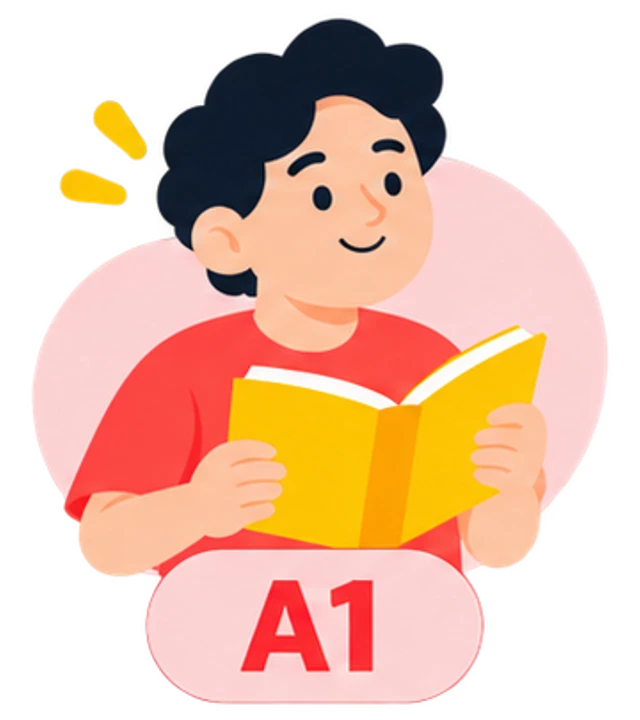
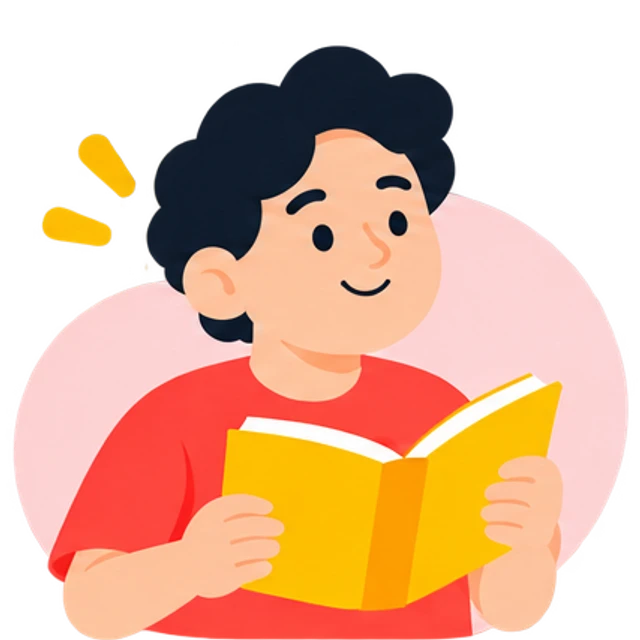
feat(placement): ilustrasi hasil placement test kini ada versi cowok & cewek tanpa badge level — dipilih lewat "Kamu cowok atau cewek?" di form sebelum tes; latar halaman hasil jadi putih, garis tepi balok level siswa di peta CEFR berputar, dan "Kamu di sini" berbentuk gelembung chat [placement-gend

diff --git a/src/app/silabus/[lang]/coba/PlacementTest.tsx b/src/app/silabus/[lang]/coba/PlacementTest.tsx
@@ -42,6 +42,37 @@ type Screen = "intro" | "quiz" | "result";
 
 // [placement-rekam-saat-mulai-v1] Kontak diisi WAJIB sebelum tes (kecuali siswa /akun).
 type Contact = { name: string; email: string; whatsapp: string };
+// [placement-gender-ilustrasi-v1] Dipilih di form sebelum tes → menentukan ilustrasi hasil
+// (cowok: <level>.webp, cewek: <level>-f.webp). Hanya disimpan di browser (linguo_prefill).
+type Gender = "m" | "f";
+const levelArtSrc = (level: string, gender: Gender | null) =>
+  `/illustrations/placement-level/${level.toLowerCase()}${gender === "f" ? "-f" : ""}.webp?v=2`;
+
+function GenderPick({ value, onChange }: { value: Gender | null; onChange: (g: Gender) => void }) {
+  return (
+    <div>
+      <p className="text-sm font-semibold text-gray-900 mb-2">Kamu cowok atau cewek?</p>
+      <div role="radiogroup" aria-label="Jenis kelamin" className="grid grid-cols-2 gap-3">
+        {([["m", "Cowok"], ["f", "Cewek"]] as [Gender, string][]).map(([g, label]) => {
+          const on = value === g;
+          return (
+            <button key={g} type="button" role="radio" aria-checked={on} onClick={() => onChange(g)}
+              className={"relative flex items-center gap-2.5 rounded-xl border-2 px-3 py-2 text-left transition-colors " +
+                (on ? "border-[#1A9E9E] bg-[#1A9E9E]/[0.07]" : "border-gray-200 bg-white hover:border-gray-300")}>
+              {/* eslint-disable-next-line @next/next/no-img-element */}
+              <img src={levelArtSrc("a1", g)} alt="" width={44} height={44} className="h-11 w-11 flex-shrink-0 object-contain" draggable={false} />
+              <span className={"text-sm font-semibold " + (on ? "text-[#147a7a]" : "text-gray-700")}>{label}</span>
+              <span className={"ml-auto flex h-5 w-5 flex-shrink-0 items-center justify-center rounded-full border-2 " +
+                (on ? "border-[#1A9E9E] bg-[#1A9E9E]" : "border-gray-300 bg-white")}>
+                {on && <Check className="h-3 w-3 text-white" strokeWidth={4} />}
+              </span>
+            </button>
+          );
+        })}
+      </div>
+    </div>
+  );
+}
 
 function fmtClock(sec: number): string {
   const m = Math.floor(sec / 60);
@@ -147,6 +178,7 @@ export default function PlacementTest({ curriculum, questions: soalBawaan }: Pro
   const searchParams = useSearchParams();
   const fromAkun = searchParams?.get("ref") === "akun" && !!searchParams?.get("sid");
   const [contact, setContact] = useState<Contact | null>(null);
+  const [gender, setGender] = useState<Gender | null>(null);
 
   const question = questions[currentQ];
   const progress = ((currentQ + 1) / questions.length) * 100;
@@ -237,7 +269,8 @@ export default function PlacementTest({ curriculum, questions: soalBawaan }: Pro
       <AnimatePresence mode="wait">
         {screen === "intro" && (
           <IntroScreen key="intro" meta={meta} total={questions.length} listening={questions.filter((q) => q.audio).length}
-            needContact={!fromAkun} onContact={saveContact} onStart={startTest} starting={menyiapkan} />
+            needContact={!fromAkun} onContact={saveContact} onStart={startTest} starting={menyiapkan}
+            gender={gender} onGender={setGender} />
         )}
         {screen === "quiz" && question && (
           <QuizScreen
@@ -264,6 +297,7 @@ export default function PlacementTest({ curriculum, questions: soalBawaan }: Pro
             meta={meta}
             timeElapsedSec={Math.floor((Date.now() - startTimeRef.current) / 1000)}
             contact={contact}
+            gender={gender}
             onRetake={startTest}
           />
         )}
@@ -275,9 +309,9 @@ export default function PlacementTest({ curriculum, questions: soalBawaan }: Pro
 // ================================================
 // INTRO
 // ================================================
-function IntroScreen({ meta, total, listening, needContact, onContact, onStart, starting }: {
+function IntroScreen({ meta, total, listening, needContact, onContact, onStart, starting, gender, onGender }: {
   meta: any; total: number; listening: number; needContact: boolean; onContact: (c: Contact) => void; onStart: () => void;
-  starting: boolean;
+  starting: boolean; gender: Gender | null; onGender: (g: Gender) => void;
 }) {
   // [placement-popup-biodata-tips-v1] "Mulai Test" → popup: biodata (wajib) → tips → mulai.
   const [step, setStep] = useState<null | "biodata" | "tips">(null);
@@ -293,9 +327,20 @@ function IntroScreen({ meta, total, listening, needContact, onContact, onStart, 
         if (p.name) setName(String(p.name));
         if (p.email) setEmail(String(p.email));
         if (p.whatsapp) setWa(cleanWa(String(p.whatsapp)));
+        if (p.gender === "m" || p.gender === "f") onGender(p.gender);
       }
     } catch {}
+    // eslint-disable-next-line react-hooks/exhaustive-deps
   }, []);
+
+  // Simpan pilihan supaya tes berikutnya (dan siswa /akun yang tanpa form biodata) tak memilih ulang.
+  const pilihGender = (g: Gender) => {
+    onGender(g);
+    try {
+      const p = JSON.parse(localStorage.getItem("linguo_prefill") || "null") || {};
+      localStorage.setItem("linguo_prefill", JSON.stringify({ ...p, gender: g }));
+    } catch {}
+  };
 
   const kirimBiodata = () => {
     setErr("");
@@ -304,8 +349,9 @@ function IntroScreen({ meta, total, listening, needContact, onContact, onStart, 
     if (!/^[^\s@]+@[^\s@]+\.[^\s@]+$/.test(email.trim())) return setErr("Masukkan email yang valid");
     if (w.length < 9) return setErr("Nomor WhatsApp minimal 9 digit");
     if (!w.startsWith("8")) return setErr("Nomor HP harus diawali 8 (tanpa 0 / +62)");
+    if (!gender) return setErr("Pilih cowok atau cewek dulu ya");
     const c = { name: name.trim(), email: email.trim(), whatsapp: w };
-    try { localStorage.setItem("linguo_prefill", JSON.stringify(c)); } catch {}
+    try { localStorage.setItem("linguo_prefill", JSON.stringify({ ...c, gender })); } catch {}
     onContact(c);
     setStep("tips");
   };
@@ -377,6 +423,7 @@ function IntroScreen({ meta, total, listening, needContact, onContact, onStart, 
                       <input type="tel" value={wa} onChange={(e) => setWa(cleanWa(e.target.value))} placeholder="812 xxxx xxxx" inputMode="numeric" autoComplete="tel-national"
                         className="flex-1 min-w-0 px-4 py-3 rounded-r-xl border border-gray-200 bg-white focus:border-[#1A9E9E] focus:ring-2 focus:ring-[#1A9E9E]/20 outline-none text-sm" />
                     </div>
+                    <GenderPick value={gender} onChange={pilihGender} />
                     {err && <p className="text-xs text-rose-600">{err}</p>}
                   </div>
                   <button type="submit"
@@ -406,6 +453,7 @@ function IntroScreen({ meta, total, listening, needContact, onContact, onStart, 
                       </li>
                     ))}
                   </ul>
+                  {!needContact && <div className="mt-5"><GenderPick value={gender} onChange={pilihGender} /></div>}
                   <button type="button" autoFocus onClick={onStart} disabled={starting}
                     className="mt-6 w-full inline-flex items-center justify-center gap-2 px-6 py-3 bg-[#1A9E9E] text-white rounded-xl font-semibold hover:bg-[#147a7a] transition-colors disabled:opacity-70">
                     {starting ? "Menyiapkan soal…" : <>Mulai Test Sekarang <ArrowRight className="w-4 h-4" /></>}
@@ -641,9 +689,9 @@ function QuizScreen(props: {
 // ================================================
 // RESULT (with Soft-gate WA)
 // ================================================
-function ResultScreen({ score, questions, log, meta, timeElapsedSec, contact, onRetake }: {
+function ResultScreen({ score, questions, log, meta, timeElapsedSec, contact, gender, onRetake }: {
   score: number; questions: Question[]; log: { correct: boolean; skipped: boolean }[]; meta: any; timeElapsedSec: number;
-  contact: Contact | null; onRetake: () => void;
+  contact: Contact | null; gender: Gender | null; onRetake: () => void;
 }) {
   // Compute max score dynamically: sum of DIFFICULTY_POINTS per question
   const maxScore = questions.reduce((sum, q) => sum + DIFFICULTY_POINTS[q.difficulty], 0);
@@ -669,7 +717,7 @@ function ResultScreen({ score, questions, log, meta, timeElapsedSec, contact, on
   const [checkingSession, setCheckingSession] = useState(false);
 
   // [placement-hasil-redesign-v1] Warna tiap level mengikuti ilustrasinya
-  // (public/illustrations/placement-level/<level>.webp): A1 merah, A2 biru, B1 kuning, B2 hijau.
+  // (public/illustrations/placement-level/<level>.webp, cewek: <level>-f.webp): A1 merah, A2 biru, B1 kuning, B2 hijau.
   const levelColorMap: Record<string, { bg: string; text: string; soft: string; border: string; pill: string }> = {
     A1: { bg: "bg-rose-100", text: "text-rose-500", soft: "bg-rose-50", border: "border-rose-200", pill: "bg-rose-100 text-rose-600" },
     A2: { bg: "bg-blue-100", text: "text-blue-600", soft: "bg-blue-50", border: "border-blue-200", pill: "bg-blue-100 text-blue-700" },
@@ -677,7 +725,7 @@ function ResultScreen({ score, questions, log, meta, timeElapsedSec, contact, on
     B2: { bg: "bg-emerald-100", text: "text-emerald-600", soft: "bg-emerald-50", border: "border-emerald-200", pill: "bg-emerald-100 text-emerald-700" },
   };
   const lc = levelColorMap[result.level] ?? levelColorMap.A1;
-  const levelArt = `/illustrations/placement-level/${(levelColorMap[result.level] ? result.level : "A1").toLowerCase()}.webp`;
+  const levelArt = levelArtSrc(levelColorMap[result.level] ? result.level : "A1", gender);
 
   // Simpan intent placement ke cookie supaya /auth/callback bisa redirect ke wizard
   const savePlacementIntent = () => {
@@ -900,7 +948,7 @@ function ResultScreen({ score, questions, log, meta, timeElapsedSec, contact, on
       </motion.section>
     ) : (
     <motion.section initial={{ opacity: 0, y: 20 }} animate={{ opacity: 1, y: 0 }} exit={{ opacity: 0 }}
-      className="min-h-screen pt-8 pb-16 px-4 sm:px-6 bg-gradient-to-b from-[#EEF5FB] via-[#F6FAFD] to-white">
+      className="min-h-screen pt-8 pb-16 px-4 sm:px-6 bg-white">
       {/* [placement-hasil-desktop-v1] Desktop (lg+): dua kolom — ilustrasi, level & skor
           menempel di kiri (sticky), rincian (peta CEFR, pembahasan, rekomendasi, tombol) di kanan.
           HP/tablet tetap satu kolom. */}
@@ -910,9 +958,9 @@ function ResultScreen({ score, questions, log, meta, timeElapsedSec, contact, on
         <div className="text-center mb-7 lg:mb-6">
           <motion.div initial={{ opacity: 0, scale: 0.8, y: 16 }} animate={{ opacity: 1, scale: 1, y: 0 }}
             transition={{ type: "spring", stiffness: 160, damping: 14, delay: 0.15 }}
-            className="mx-auto mb-5 lg:mb-4 w-[250px] sm:w-[290px] lg:w-[230px]">
+            className="mx-auto mb-5 lg:mb-4 w-[260px] sm:w-[300px] lg:w-[250px]">
             {/* eslint-disable-next-line @next/next/no-img-element */}
-            <img src={levelArt} alt={"Ilustrasi level " + result.level} width={640} height={720}
+            <img src={levelArt} alt={"Ilustrasi level " + result.level} width={640} height={640}
               className="w-full h-auto select-none drop-shadow-[0_18px_24px_rgba(15,60,90,0.10)]" draggable={false} />
           </motion.div>
           <motion.p initial={{ opacity: 0 }} animate={{ opacity: 1 }} transition={{ delay: 0.45 }}

diff --git a/src/components/CefrLevelMap.tsx b/src/components/CefrLevelMap.tsx
@@ -58,9 +58,12 @@ export default function CefrLevelMap({ sublevel }: { sublevel?: string }) {
       const cx = xs[here] + COL / 2;
       const px = Math.min(Math.max(cx - f.pillW / 2, 0), VB_W - f.pillW);
       const tallest = Math.max(...bars.map((b, i) => (xs[i] + COL > px && xs[i] < px + f.pillW ? hOf(b) : 0)));
-      return { px, y: BASE - tallest - f.bar - f.pillH - 8 };
+      // [cefr-map-bubble-v1] Bentuk gelembung chat: ekornya menunjuk ke kolom balok siswa.
+      const tail = compact ? 9 : 6;
+      const tx = Math.min(Math.max(cx, px + 12), px + f.pillW - 12);
+      return { px, y: BASE - tallest - f.bar - f.pillH - 9 - tail, tail, tx };
     })() : null;
-    const top = Math.min(0, pill ? pill.y - 4 : 0);
+    const top = Math.min(0, pill ? pill.y - 8 : 0);
     const bottom = compact ? BASE + 76 : 240;
     return (
       <svg viewBox={`0 ${top} ${VB_W} ${bottom - top}`} className={"w-full " + (compact ? "block sm:hidden" : "hidden sm:block")} role="img"
@@ -71,14 +74,27 @@ export default function CefrLevelMap({ sublevel }: { sublevel?: string }) {
           return (
             <g key={b.code}>
               <rect x={x} y={y} width={COL} height={h} rx="6" fill={b.lvl.c} opacity={here < 0 || i <= here ? 1 : 0.3} />
-              {isHere && <rect x={x - 2.5} y={y - 2.5} width={COL + 5} height={h + 5} rx="8" fill="none" stroke={TEAL} strokeWidth="2.5" />}
+              {/* [cefr-map-outline-anim-v1] Garis tepi balok siswa: alas tipis + dua ruas yang berputar mengelilinginya. */}
+              {isHere && (
+                <>
+                  <rect x={x - 3} y={y - 3} width={COL + 6} height={h + 6} rx="8.5" fill="none" stroke={TEAL} strokeOpacity="0.22" strokeWidth="2.5" />
+                  <rect x={x - 3} y={y - 3} width={COL + 6} height={h + 6} rx="8.5" fill="none" stroke={TEAL} strokeWidth="3"
+                    strokeLinecap="round" pathLength={100} strokeDasharray="30 20">
+                    <animate attributeName="stroke-dashoffset" from="100" to="0" dur="2.2s" repeatCount="indefinite" />
+                  </rect>
+                </>
+              )}
               <text x={x + COL / 2} y={y - 7} textAnchor="middle" fontSize={f.bar} fontWeight="700" fill={isHere ? TEAL : "#6B7280"}>{compact ? b.i + 1 : b.code}</text>
             </g>
           );
         })}
         {pill && (
           <g>
-            <rect x={pill.px} y={pill.y} width={f.pillW} height={f.pillH} rx={f.pillH / 2} fill={TEAL} />
+            <animateTransform attributeName="transform" type="translate" values="0 0; 0 -3; 0 0" dur="1.8s" repeatCount="indefinite"
+              calcMode="spline" keyTimes="0; 0.5; 1" keySplines="0.4 0 0.6 1; 0.4 0 0.6 1" />
+            <rect x={pill.px} y={pill.y} width={f.pillW} height={f.pillH} rx={f.pillH * 0.38} fill={TEAL} />
+            <path d={`M${pill.tx - pill.tail} ${pill.y + f.pillH - 1} L${pill.tx} ${pill.y + f.pillH + pill.tail} L${pill.tx + pill.tail} ${pill.y + f.pillH - 1} Z`}
+              fill={TEAL} stroke={TEAL} strokeWidth="1.5" strokeLinejoin="round" />
             <text x={pill.px + f.pillW / 2} y={pill.y + f.pillH / 2 + f.pill * 0.36} textAnchor="middle" fontSize={f.pill} fontWeight="800" fill="#fff">Kamu di sini</text>
           </g>
         )}
